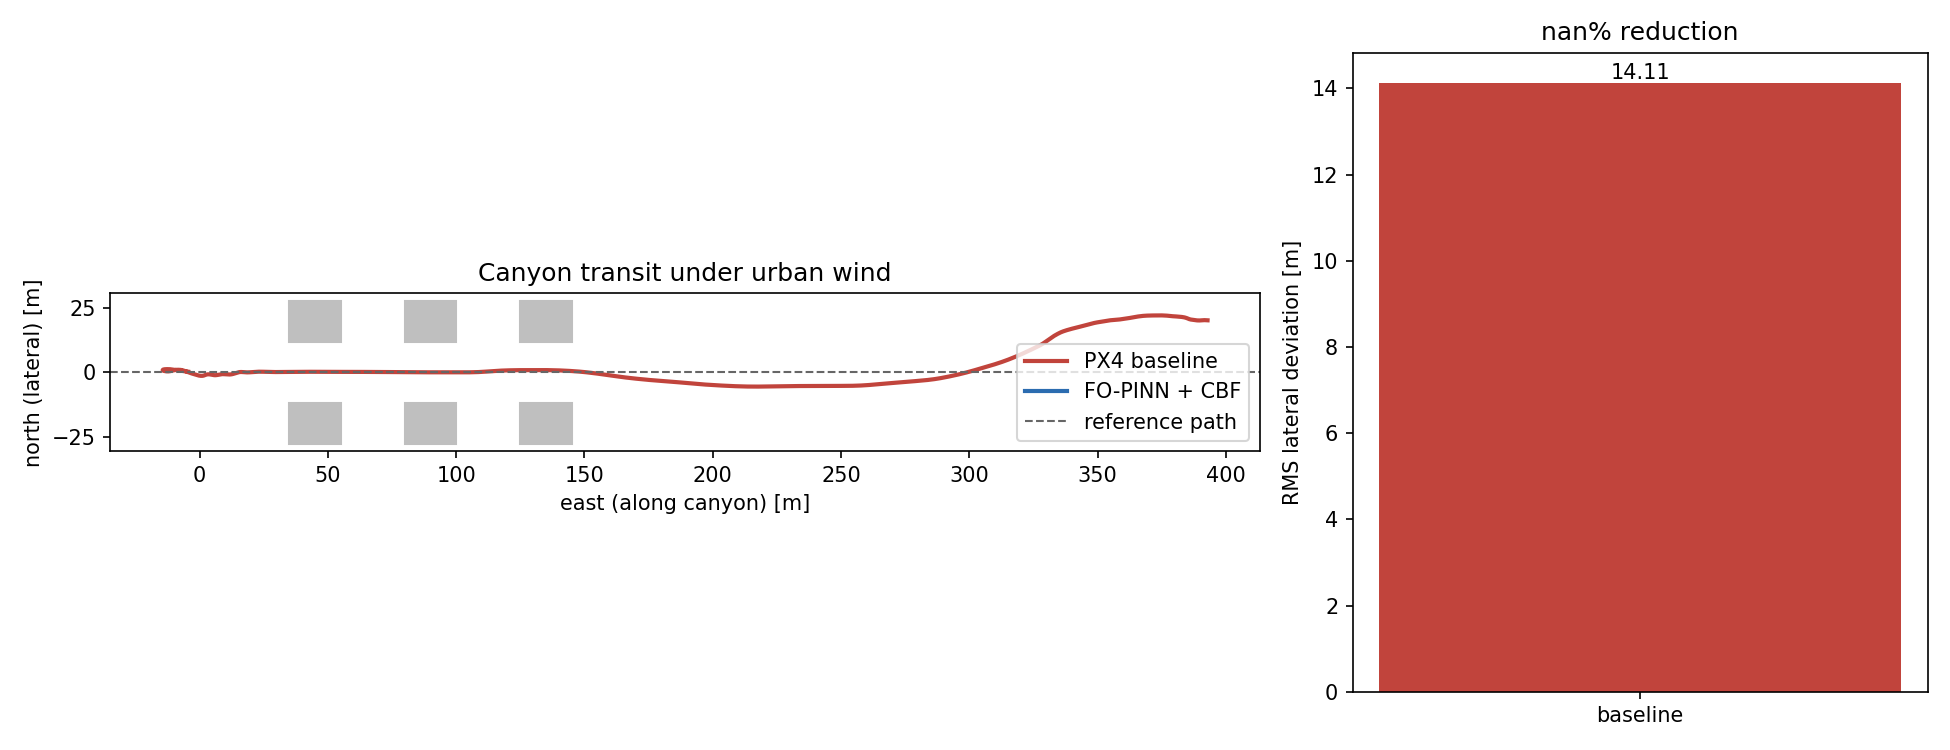
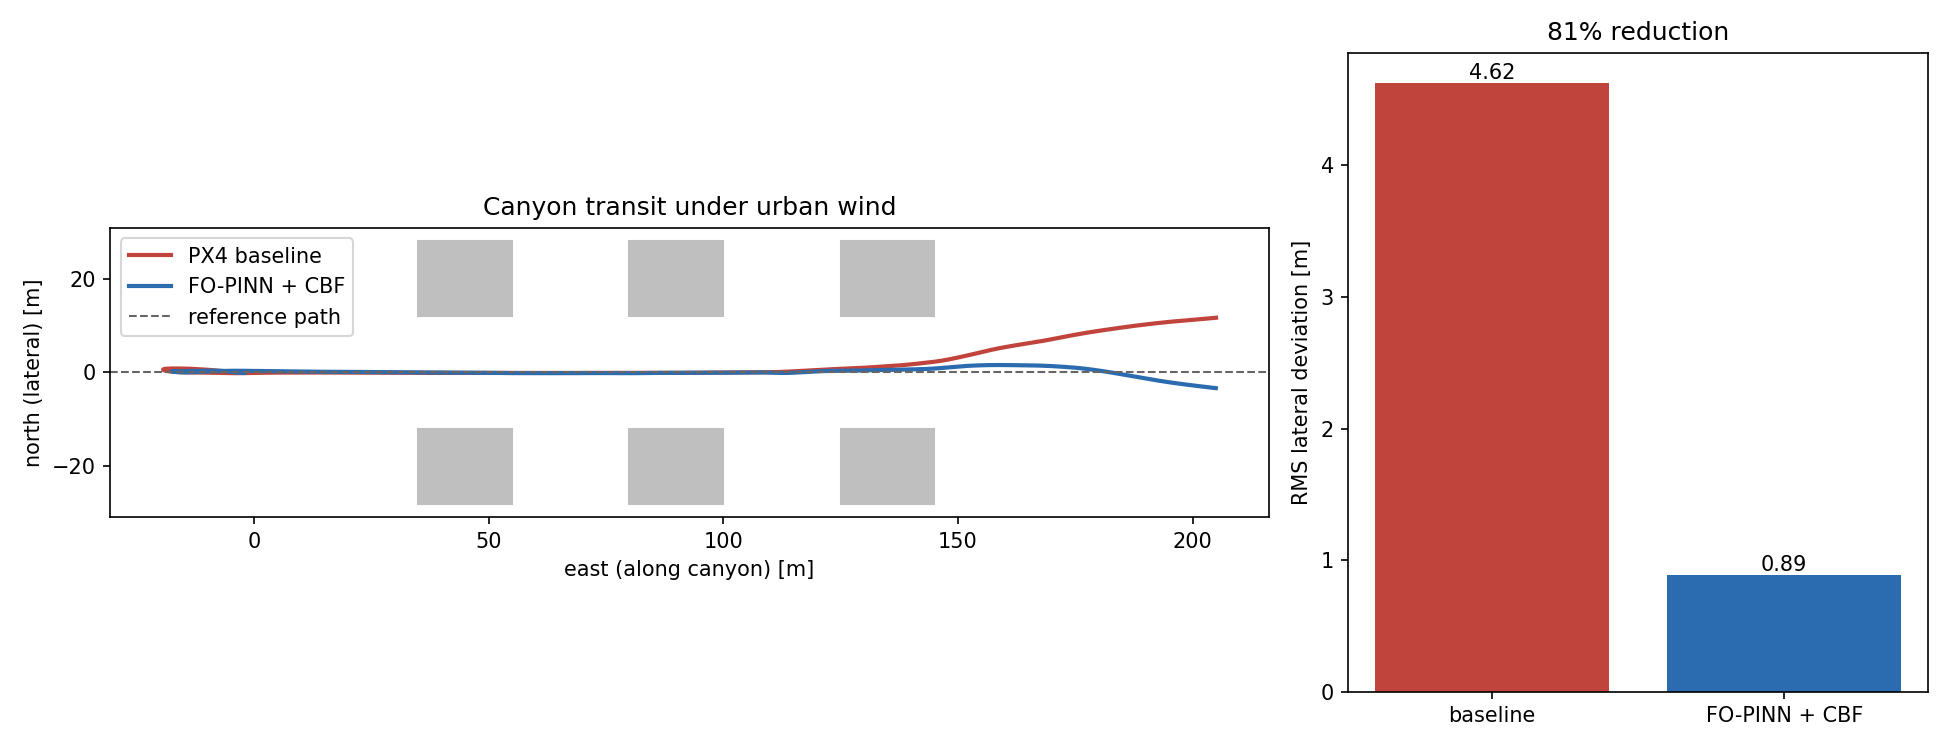
fix: scope the comparison figures to the canyon transit, not the return leg
_flying() had no upper bound on distance travelled, so once baseline's
broken native RTL and treatment's own return-and-land started producing
hundreds of metres of post-transit wandering, both figures ended up
dominated by that tail instead of the actual ~200m transit the
baseline/treatment comparison is about. Cut the data off a little past
the canyon exit -- consistent with controller_node's own
RETURN_CLEARANCE_M treating the return leg as outside the comparison.

Regenerated both figures from a fresh live_full trial run through the
new split-process run_trial pipeline.

diff --git a/src/aerocanyon/aerocanyon/plot_results.py b/src/aerocanyon/aerocanyon/plot_results.py
@@ -12,9 +12,23 @@ from . import canyon_geometry as cg  # noqa: E402
 
 
 def _flying(df):
-    """Rows where the vehicle is actually airborne and tracking."""
+    """Rows where the vehicle is actually airborne, tracking, and still
+    within the canyon transit itself -- not the return leg.
+
+    The return leg (baseline's native RTL, which doesn't reliably
+    navigate home in this SITL config and can drift for hundreds of
+    metres; treatment's own wind-compensated fly-home) isn't part of the
+    baseline/treatment comparison being measured -- see controller_node's
+    RETURN_CLEARANCE_M and History.md. Cut the data off a little past the
+    canyon exit, in local NED east (== distance travelled from
+    CANYON_ENTRY, see building_plot_rect below), so a few hundred metres of
+    aimless post-transit wandering can't swamp the actual ~200 m transit
+    in these figures."""
+    exit_east = float(cg.CANYON_EXIT[0]) - float(cg.CANYON_ENTRY[0])
+    transit_margin_m = 5.0
     return df[(df[['qw', 'qx', 'qy', 'qz']].abs().sum(axis=1) > 0.5)
-              & (df.z < -2.0)]
+              & (df.z < -2.0)
+              & (df.y <= exit_east + transit_margin_m)]
 
 
 def lateral_deviation(df):
